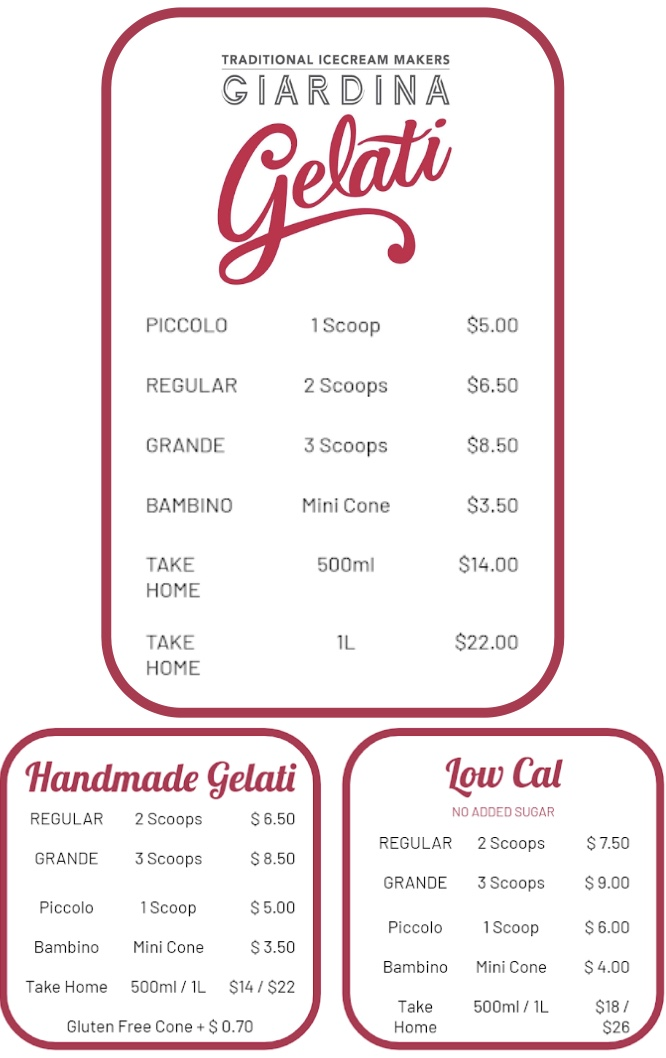
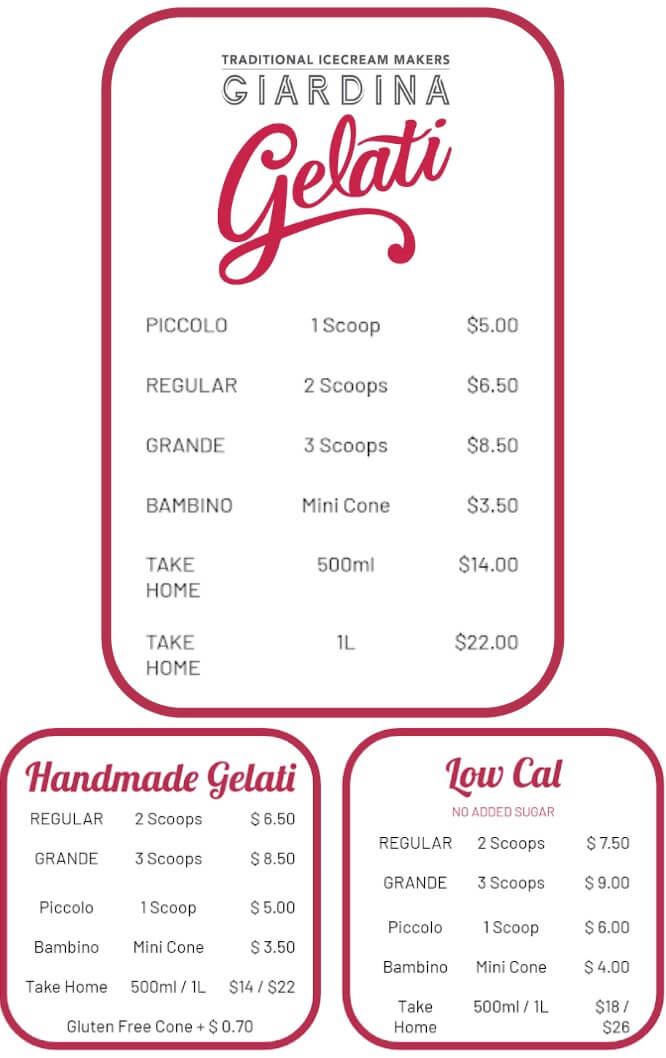
+more updates (comments + optimised images)

diff --git a/assets/css/style.css b/assets/css/style.css
@@ -34,18 +34,18 @@ Table of Contents
 
 body {
     font-family: 'Barlow', sans-serif;
-/* Refer to slide 11 in document*/
+/* Refer to slide 22 in document*/
     color: #444444;
 }
 
 a {
     color: #b63150;
-/* Refer to slide 11 in document*/
+/* Refer to slide 22 in document*/
 }
 
 a:hover {
     color: #b63150;
-/* Refer to slide 11 in document*/
+/* Refer to slide 22 in document*/
     text-decoration: none;
 }
 
@@ -56,7 +56,7 @@ h4,
 h5,
 h6 {
     font-family: "Raleway", sans-serif;
-/* Refer to slide 50 in document*/
+/* Refer to slide 59 in document*/
 
 }
 
@@ -116,7 +116,7 @@ h6 {
 
 #header.header-scrolled {
     background: #b63150;
-/* Refer to slide 11 in document*/
+/* Refer to slide 22 in document*/
     padding: 0;
 }
 
@@ -164,7 +164,7 @@ h6 {
     white-space: nowrap;
     float: left;
     background: #b63150;
-    /* Refer to slide 11 in document*/
+    /* Refer to slide 22 in document*/
 
 }
 
@@ -176,7 +176,7 @@ h6 {
     transition: 0.3s;
     font-size: 13px;
     font-family: "Poppins", sans-serif;
-    /* Refer to slide 50 in document*/
+    /* Refer to slide 59 in document*/
     text-transform: uppercase;
     font-weight: 500;
 }
@@ -194,7 +194,7 @@ h6 {
 
 .header-scrolled .nav-menu a {
     color: #fff;
- /* Refer to slide 11 in document*/
+ /* Refer to slide 22 in document*/
 
 }
 
@@ -315,7 +315,7 @@ h6 {
     z-index: 9999;
     overflow-y: auto;
     background: #b63150;
-    /* Refer to slide 11 in document*/
+    /* Refer to slide 22 in document*/
     transition: ease-in-out 0.2s;
     opacity: 0;
     visibility: hidden;
@@ -529,7 +529,7 @@ section {
 
 
 /*--------------------------------------------------------------
-# Our Story, previosly About
+# Our Story, previously About
 --------------------------------------------------------------*/
 .about {
     background: url("../img/about-bg.jpg") center center no-repeat;
@@ -562,7 +562,7 @@ section {
     font-weight: 700;
     font-size: 34px;
     color: #b63150;
-    /* Refer to slide 11 in document*/
+    /* Refer to slide 22 in document*/
     margin-bottom: 30px;
 
 }
@@ -596,7 +596,7 @@ section {
 .counts {
     padding-bottom: 30px;
     background: linear-gradient(rgba(203, 163, 174, 0.2), rgba(227, 186, 197, 0.2))
-/* Refer to slide 11 in document*/
+/* Refer to slide 22 in document*/
         
 }
 
@@ -609,7 +609,7 @@ section {
     display: block;
     font-size: 44px;
     color: #d38396;
-    /* Refer to slide 11 in document*/
+    /* Refer to slide 22 in document*/
 
     float: left;
 }
@@ -620,7 +620,7 @@ section {
     display: block;
     font-weight: 700;
     color: #B63150;
-    /* Refer to slide 11 in document*/
+    /* Refer to slide 22 in document*/
 
     margin-left: 60px;
 }
@@ -629,7 +629,7 @@ section {
     padding: 15px 0 0 0;
     margin: 0 0 0 60px;
     font-family: "Raleway", sans-serif;
-    /* Refer to slide 50 in document*/
+    /* Refer to slide 59 in document*/
     font-size: 14px;
     color: #908A8C;
 }
@@ -639,7 +639,7 @@ section {
     display: block;
     margin-top: 20px;
     color: #e1acb9;
-    /* Refer to slide 11 in document*/
+    /* Refer to slide 22 in document*/
     font-size: 15px;
     font-family: "Poppins", sans-serif;
     /* Refer to slide 50 in document*/
@@ -648,7 +648,7 @@ section {
 
 .counts .count-box a:hover {
     color: #e1acb9;
-    /* Refer to slide 11 in document*/
+    /* Refer to slide 22 in document*/
 }
 
 /*------ Removed Cta style ------*/
@@ -670,7 +670,7 @@ section {
     list-style: none;
     text-align: center;
     background: #f0d3de;
-    /* Refer to slide 11 in document*/
+    /* Refer to slide 22 in document*/
     border-radius: 50px;
     padding: 2px 15px;
 }
@@ -684,7 +684,7 @@ section {
     line-height: 1;
     text-transform: uppercase;
     color: #b63150;
-    /* Refer to slide 11 in document*/
+    /* Refer to slide 22 in document*/
     margin-bottom: 5px;
     transition: all 0.3s ease-in-out;
 }
@@ -775,7 +775,7 @@ section {
 
 .deliveroo {
     background: linear-gradient(rgba(203, 163, 174, 0.2), rgba(227, 186, 197, 0.2))
-    /* Refer to slide 11 in document*/
+    /* Refer to slide 22 in document*/
 }
 
 .deliveroo p {
@@ -785,7 +785,7 @@ section {
 
 .deliveroo-btn:hover {
     filter: drop-shadow(10px 10px 15px rgba(203, 163, 174, 1));
-    /* Refer to slide 11 in document*/
+    /* Refer to slide 22 in document*/
 }
 
 .full-width {
@@ -834,7 +834,7 @@ section {
     font-size: 48px;
     line-height: 1;
     color: #e1acb9;
-    /* Refer to slide 11 in document*/
+    /* Refer to slide 22 in document*/
     transition: all 0.3s ease-in-out;
 }
 
@@ -881,7 +881,7 @@ section {
 --------------------------------------------------------------*/
 .cta {
     background: linear-gradient(rgba(203, 163, 174, 0.8), rgba(227, 186, 197, 0.8));
-    /* Refer to slide 11 in document*/
+    /* Refer to slide 22 in document*/
     background-size: cover;
     padding: 60px 0;
 }
@@ -934,7 +934,7 @@ section {
 .testimonials .testimonial-item .quote-icon-left,
 .testimonials .testimonial-item .quote-icon-right {
     color: #f0d5dc;
-    /* Refer to slide 11 in document*/
+    /* Refer to slide 22 in document*/
     font-size: 26px;
 }
 
@@ -1009,7 +1009,7 @@ section {
 
 .tripadvisor-btn:hover {
     filter: drop-shadow(5px 5px 10px rgba(203, 163, 174, 1));
-    /* Refer to slide 11 in document*/
+    /* Refer to slide 22 in document*/
 }
 
 
@@ -1020,7 +1020,7 @@ section {
 .contact {
     padding-bottom: 80px;
     background: linear-gradient(rgba(203, 163, 174, 0.2), rgba(227, 186, 197, 0.2));
-    /* Refer to slide 11 in document*/
+    /* Refer to slide 22 in document*/
 }
 
 .contact .info-box {
@@ -1140,7 +1140,7 @@ section {
 
 .contact .php-email-form button[type="submit"]:hover {
     background: #D57C9C;
-    /* Refer to slide 11 in document*/
+    /* Refer to slide 22 in document*/
 }
 
 @-webkit-keyframes animate-loading {
@@ -1168,7 +1168,7 @@ section {
 --------------------------------------------------------------*/
 #footer {
     background: #cba3ae;
-    /* Refer to slide 11 in document*/
+    /* Refer to slide 22 in document*/
     padding: 0 0 30px 0;
 
     font-size: 14px;
@@ -1184,7 +1184,7 @@ section {
     background: white;
     color: #b63150;
     border-top: 4px solid #b63150;
-    /* Refer to slide 11 in document*/
+    /* Refer to slide 22 in document*/
     
     text-align: center;
     padding: 30px 20px;
@@ -1203,7 +1203,7 @@ section {
     line-height: 24px;
     margin-bottom: 0;
     font-family: "Raleway", sans-serif;
-    /* Refer to slide 50 in document*/
+    /* Refer to slide 59 in document*/
     color: #444444;
 }
 
@@ -1211,7 +1211,7 @@ section {
     font-size: 18px;
     display: inline-block;
     background: #b63150;
-    /* Refer to slide 11 in document*/
+    /* Refer to slide 22 in document*/
     color: #fff;
     line-height: 1;
     padding: 8px 0;
@@ -1225,7 +1225,7 @@ section {
 
 #footer .footer-top .social-links a:hover {
     background: #D57C9C;
-    /* Refer to slide 11 in document*/
+    /* Refer to slide 22 in document*/
     color: #fff;
     text-decoration: none;
 }
@@ -1253,7 +1253,7 @@ section {
 #footer .footer-top .footer-links ul i {
     padding-right: 2px;
     color: #b63150;
-    /* Refer to slide 11 in document*/
+    /* Refer to slide 22 in document*/
     font-size: 18px;
     line-height: 1;
 }
@@ -1278,14 +1278,14 @@ section {
 
 #footer .footer-top .footer-links ul a:hover {
     color: #B63150;
-    /* Refer to slide 11 in document*/
+    /* Refer to slide 22 in document*/
 }
 
 /*------ Removed newsletter style since it was deleted in html ------*/
 
 #footer .copyright {
     border-top: 1px solid #b63150;
-    /* Refer to slide 11 in document*/
+    /* Refer to slide 22 in document*/
     text-align: center;
     padding-top: 30px;
     color: #fff;
@@ -1301,7 +1301,7 @@ section {
 
 .black-font /*Class added to style BotstrapMade link*/ {
     color: #B63150
-/* Refer to slide 11 in document*/
+/* Refer to slide 22 in document*/
 
 }
 
